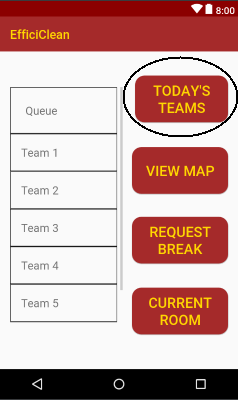
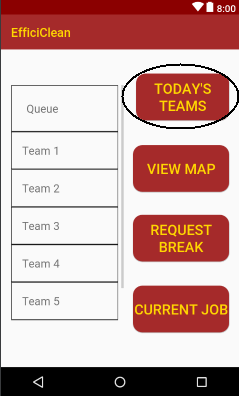
[EFIC-99] Update all current rooms to current job in UI, Activity and Documentation

diff --git a/code/app/src/main/java/com/app/efficiclean/activities/StaffCurrentJob.java b/code/app/src/main/java/com/app/efficiclean/activities/StaffCurrentJob.java
@@ -15,7 +15,7 @@ import com.app.efficiclean.classes.Team;
 import com.google.firebase.auth.FirebaseAuth;
 import com.google.firebase.database.*;
 
-public class StaffCurrentRoom extends AppCompatActivity {
+public class StaffCurrentJob extends AppCompatActivity {
 
     private Button btMarkClean;
     private Button btReportHazard;
@@ -88,7 +88,7 @@ public class StaffCurrentRoom extends AppCompatActivity {
         btReportHazard.setOnClickListener(new View.OnClickListener() {
             @Override
             public void onClick(View v) {
-                Intent i = new Intent(StaffCurrentRoom.this, ReportHazard.class);
+                Intent i = new Intent(StaffCurrentJob.this, ReportHazard.class);
                 i.putExtras(extras);
                 i.putExtra("teamKey", teamKey);
                 i.putExtra("supervisorKey", supervisorKey);
@@ -101,7 +101,7 @@ public class StaffCurrentRoom extends AppCompatActivity {
         btReportSevereMess.setOnClickListener(new View.OnClickListener() {
             @Override
             public void onClick(View v) {
-                Intent i = new Intent(StaffCurrentRoom.this, ReportSevereMess.class);
+                Intent i = new Intent(StaffCurrentJob.this, ReportSevereMess.class);
                 i.putExtras(extras);
                 i.putExtra("teamKey", teamKey);
                 i.putExtra("supervisorKey", supervisorKey);
@@ -185,7 +185,7 @@ public class StaffCurrentRoom extends AppCompatActivity {
         mSupervisorRef.child(supervisorKey).child("approvals").push().setValue(approval);
         mTeamRef.child("status").setValue("Waiting");
         mTeamRef.child("currentJob").removeValue();
-        Toast.makeText(StaffCurrentRoom.this, "This room has been marked clean and an approval request has been sent to the supervisor.",
+        Toast.makeText(StaffCurrentJob.this, "This room has been marked clean and an approval request has been sent to the supervisor.",
                 Toast.LENGTH_LONG).show();
         finish();
     }

diff --git a/code/app/src/main/java/com/app/efficiclean/activities/StaffHome.java b/code/app/src/main/java/com/app/efficiclean/activities/StaffHome.java
@@ -23,7 +23,7 @@ import com.google.firebase.database.*;
 public class StaffHome extends AppCompatActivity {
 
     private Button btRequestBreak;
-    private Button btCurrentRoom;
+    private Button btCurrentJob;
     private Button btViewMap;
     private String staffKey;
     private String hotelID;
@@ -78,11 +78,11 @@ public class StaffHome extends AppCompatActivity {
             }
         });
 
-        btCurrentRoom = (Button) findViewById(com.app.efficiclean.R.id.btCurrentRoom);
-        btCurrentRoom.setOnClickListener(new View.OnClickListener() {
+        btCurrentJob = (Button) findViewById(com.app.efficiclean.R.id.btCurrentJob);
+        btCurrentJob.setOnClickListener(new View.OnClickListener() {
             @Override
             public void onClick(View v) {
-                Intent i = new Intent(StaffHome.this, StaffCurrentRoom.class);
+                Intent i = new Intent(StaffHome.this, StaffCurrentJob.class);
                 i.putExtras(extras);
                 startActivity(i);
                 onStop();

diff --git a/user_manual/staffmanual.md b/user_manual/staffmanual.md
@@ -45,14 +45,14 @@
     - Queue
     - View Map button (highlighted in red)
     - Request Break button (highlighted in blue)
-    - Current Room button (highlighted in green)
+    - Current Job button (highlighted in green)
 
 - The Today’s Team section will list the teams of the day.
 - The queue will show the ordering of these teams to be assigned to a room
     - The team at the top of the queue is the team next to be assigned a room
 - The View Map button (highlighted in red) shows a map view of the status of each room in the hotel
 - The Request Break button (highlighted in blue) is where you and your team member can request your break. If you do not request a break one will be assigned to you.
-- The Current Room button is for you and your team member to see what room you are currently assigned to and mark it’s status.
+- The Current Job button is for you and your team member to see what room you are currently assigned to and mark it’s status.
 &nbsp;
 
 ## The Home Screen (Mobile)
@@ -102,8 +102,7 @@
 - You will receive a notification to inform you if this break has been approved or disapproved.
 &nbsp;
 
-## Current Room
-
+## Current Job
 &nbsp;
 
 *Mobile Interface*                 | *Tablet interface*
